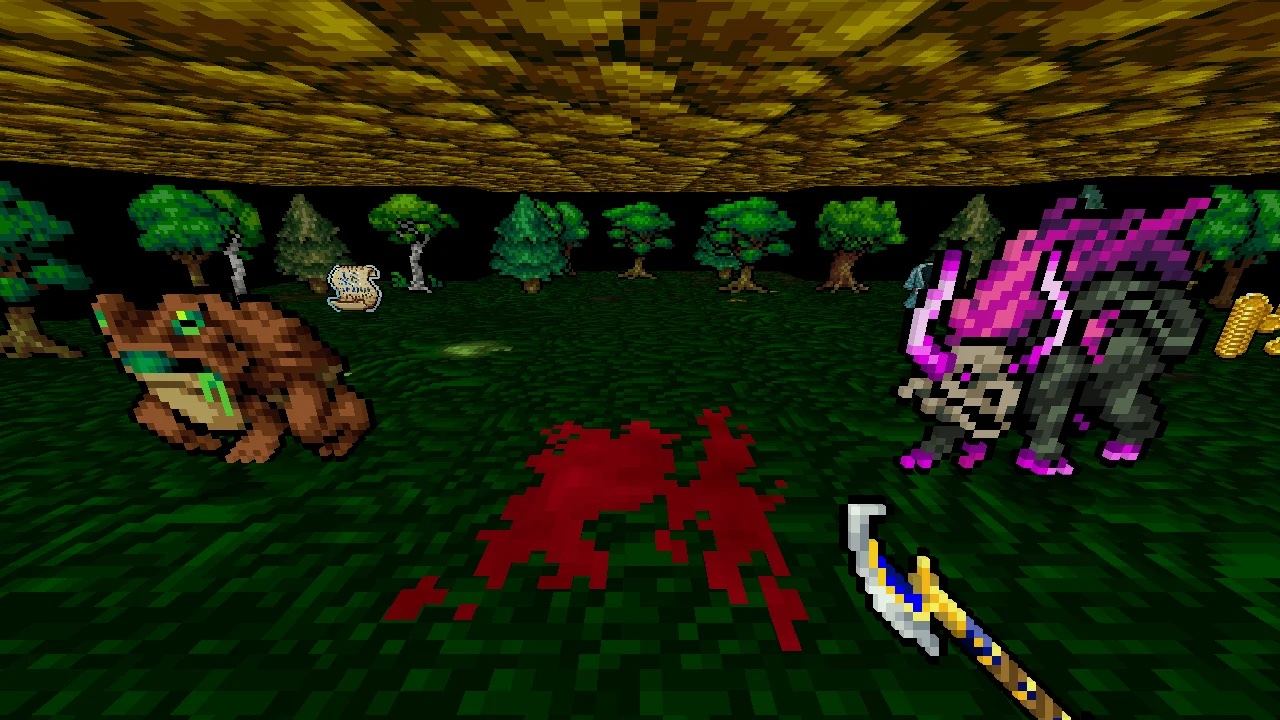
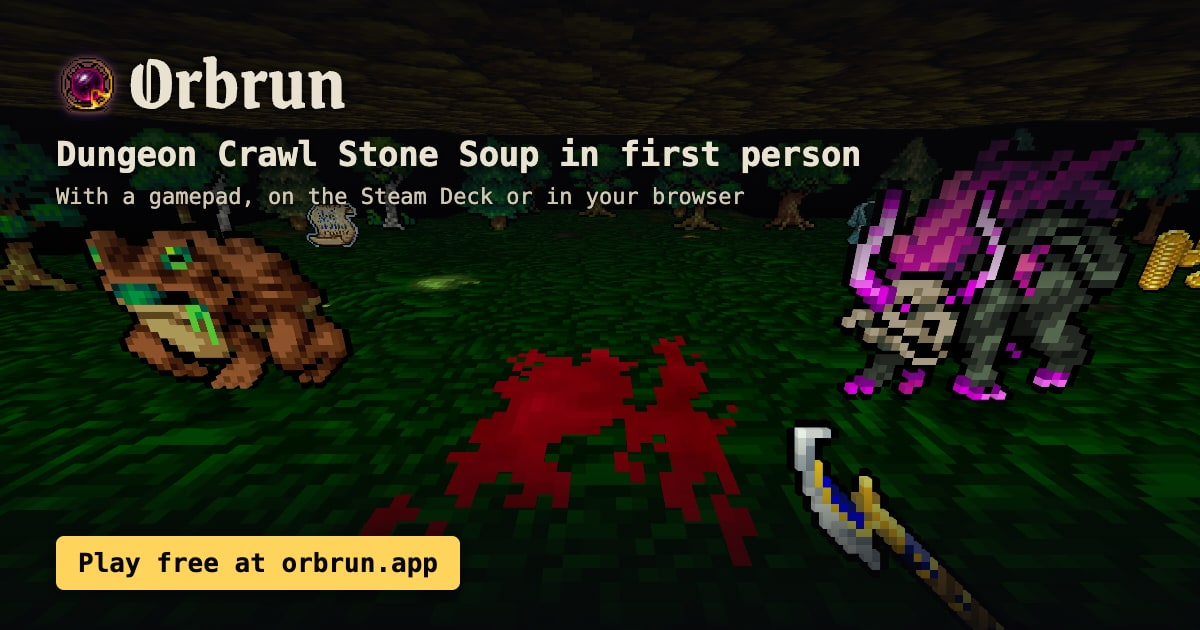
feat: social cards at 1200×630 with the name, the headline and where to play

diff --git a/apps/orbrun/index.html b/apps/orbrun/index.html
@@ -26,20 +26,20 @@
       content="Play Dungeon Crawl Stone Soup (DCSS) in first-person 3D with a gamepad, in your browser. Built for the Steam Deck, on your own WebTiles account."
     />
     <meta property="og:url" content="https://orbrun.app/" />
-    <!-- the front room at rest (tools/build/poster.mjs), the same picture the menus stand on before WebGL is up -->
-    <meta property="og:image" content="https://orbrun.app/room/poster.jpg" />
+    <!-- the front room at rest (tools/build/poster.mjs) with the name and where to play over it, at the 1.91:1 the platforms expect (tools/build/cards.mjs) -->
+    <meta property="og:image" content="https://orbrun.app/room/card.jpg" />
     <meta property="og:image:type" content="image/jpeg" />
-    <meta property="og:image:width" content="1280" />
-    <meta property="og:image:height" content="720" />
-    <meta property="og:image:alt" content="A stone hall in Dungeon Crawl Stone Soup's tiles: a down staircase between two granite statues, plants, an altar and a fountain" />
+    <meta property="og:image:width" content="1200" />
+    <meta property="og:image:height" content="630" />
+    <meta property="og:image:alt" content="A stone hall in Dungeon Crawl Stone Soup's tiles: a down staircase between two granite statues, plants, an altar and a fountain, under the Orbrun name, “Dungeon Crawl Stone Soup in first person” and “Play free at orbrun.app”" />
     <meta name="twitter:card" content="summary_large_image" />
     <meta name="twitter:title" content="Orbrun - Dungeon Crawl Stone Soup in first person" />
     <meta
       name="twitter:description"
       content="Play Dungeon Crawl Stone Soup (DCSS) in first-person 3D with a gamepad, in your browser. Built for the Steam Deck, on your own WebTiles account."
     />
-    <meta name="twitter:image" content="https://orbrun.app/room/poster.jpg" />
-    <meta name="twitter:image:alt" content="A stone hall in Dungeon Crawl Stone Soup's tiles: a down staircase between two granite statues, plants, an altar and a fountain" />
+    <meta name="twitter:image" content="https://orbrun.app/room/card.jpg" />
+    <meta name="twitter:image:alt" content="A stone hall in Dungeon Crawl Stone Soup's tiles: a down staircase between two granite statues, plants, an altar and a fountain, under the Orbrun name, “Dungeon Crawl Stone Soup in first person” and “Play free at orbrun.app”" />
     <script type="application/ld+json">
       {
         "@context": "https://schema.org",

diff --git a/apps/orbrun/site-pages.ts b/apps/orbrun/site-pages.ts
@@ -34,6 +34,9 @@ const SOURCE = 'https://github.com/Caeous/orbrun'
 /** the poster's words, as index.html's card has them */
 const POSTER_ALT = 'A stone hall in Dungeon Crawl Stone Soup’s tiles: a down staircase between two granite statues, plants, an altar and a fountain'
 
+/** what a social card sets over its still (tools/build/cards.mjs), as index.html's card has it */
+const CARD_WORDS = ', under the Orbrun name, “Dungeon Crawl Stone Soup in first person” and “Play free at orbrun.app”'
+
 /** the pad's buttons as the documents name them in bold, and the app's glyph for each (glyphs.ts) */
 const PAD_BUTTONS: Record<string, GlyphName> = { A: 'A', B: 'B', X: 'X', Y: 'Y', LB: 'LB', RB: 'RB', LT: 'LT', RT: 'RT', L3: 'L3', R3: 'R3', Select: 'SELECT', Start: 'START' }
 
@@ -226,8 +229,8 @@ function structuredData(page: Page): string {
 }
 
 function head(page: Page, css: string): string {
-  // About's card is its hero, a still of a real game; the documents' is the room they stand in
-  const card = page.path === '/about' ? { src: '/about/card.jpg', alt: HERO_ALT } : { src: '/room/poster.jpg', alt: POSTER_ALT }
+  // About's card is its hero, a still of a real game; the documents' is the room they stand in (both 1200×630, tools/build/cards.mjs)
+  const card = page.path === '/about' ? { src: '/about/card.jpg', alt: HERO_ALT + CARD_WORDS } : { src: '/room/card.jpg', alt: POSTER_ALT + CARD_WORDS }
   const title = esc(page.title)
   const description = esc(page.description)
   return `<head>
@@ -246,8 +249,8 @@ function head(page: Page, css: string): string {
 <meta property="og:url" content="${url(page)}" />
 <meta property="og:image" content="${SITE_URL}${card.src}" />
 <meta property="og:image:type" content="image/jpeg" />
-<meta property="og:image:width" content="1280" />
-<meta property="og:image:height" content="720" />
+<meta property="og:image:width" content="1200" />
+<meta property="og:image:height" content="630" />
 <meta property="og:image:alt" content="${esc(card.alt)}" />
 <meta name="twitter:card" content="summary_large_image" />
 <meta name="twitter:title" content="${title}" />
